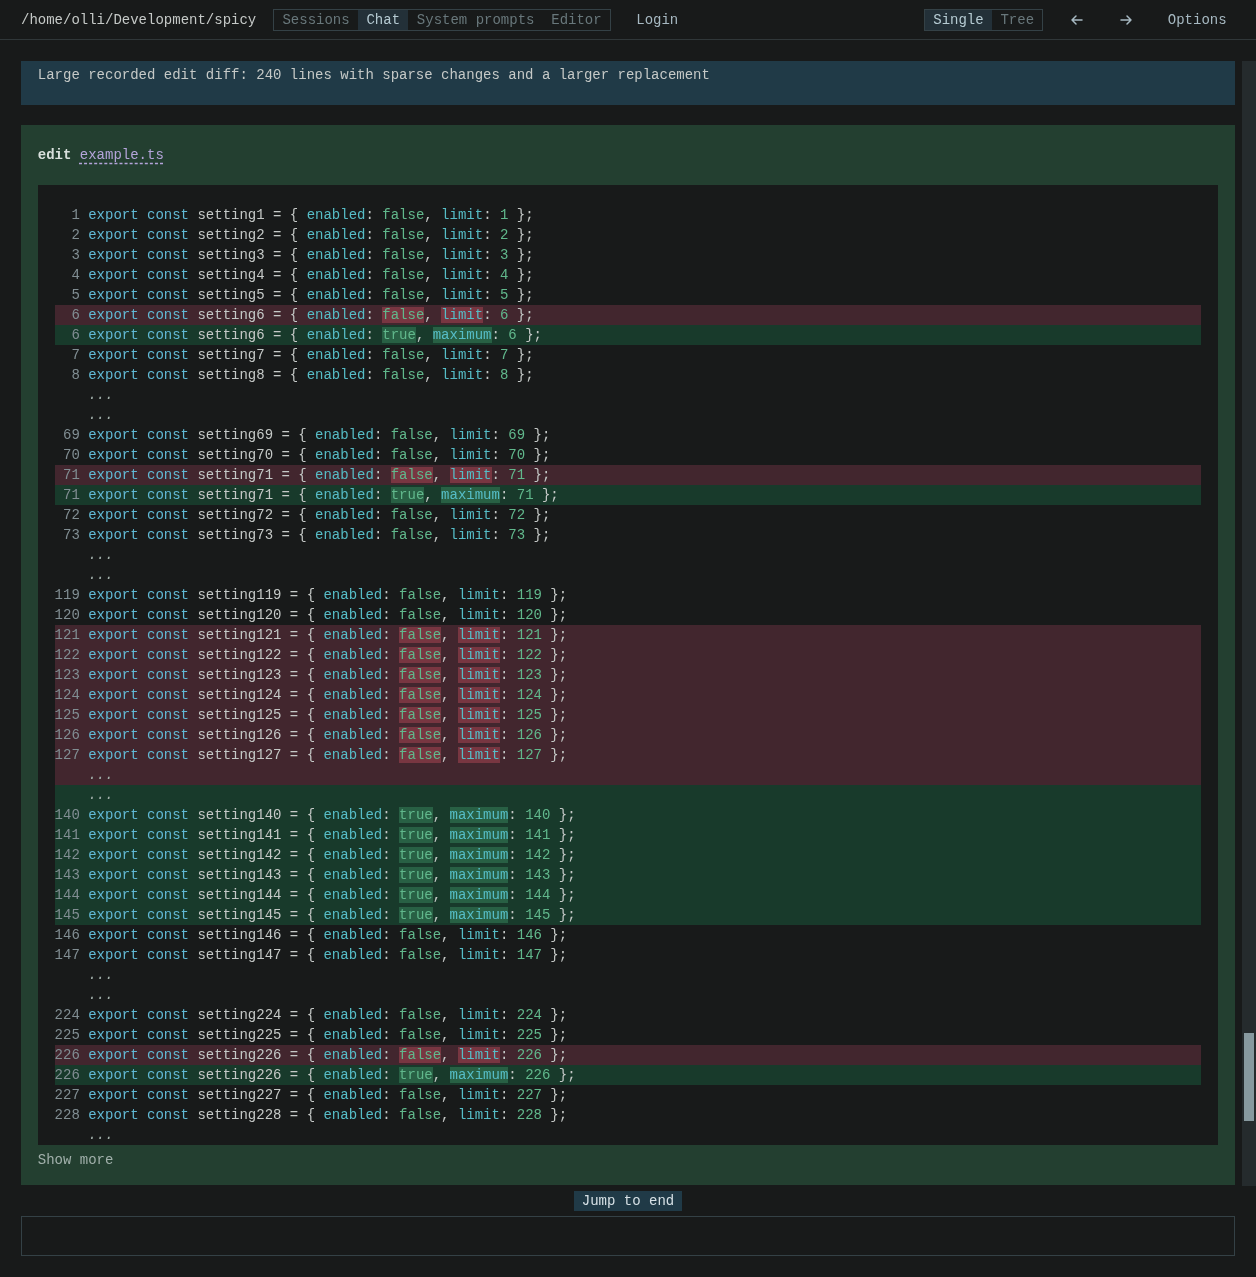
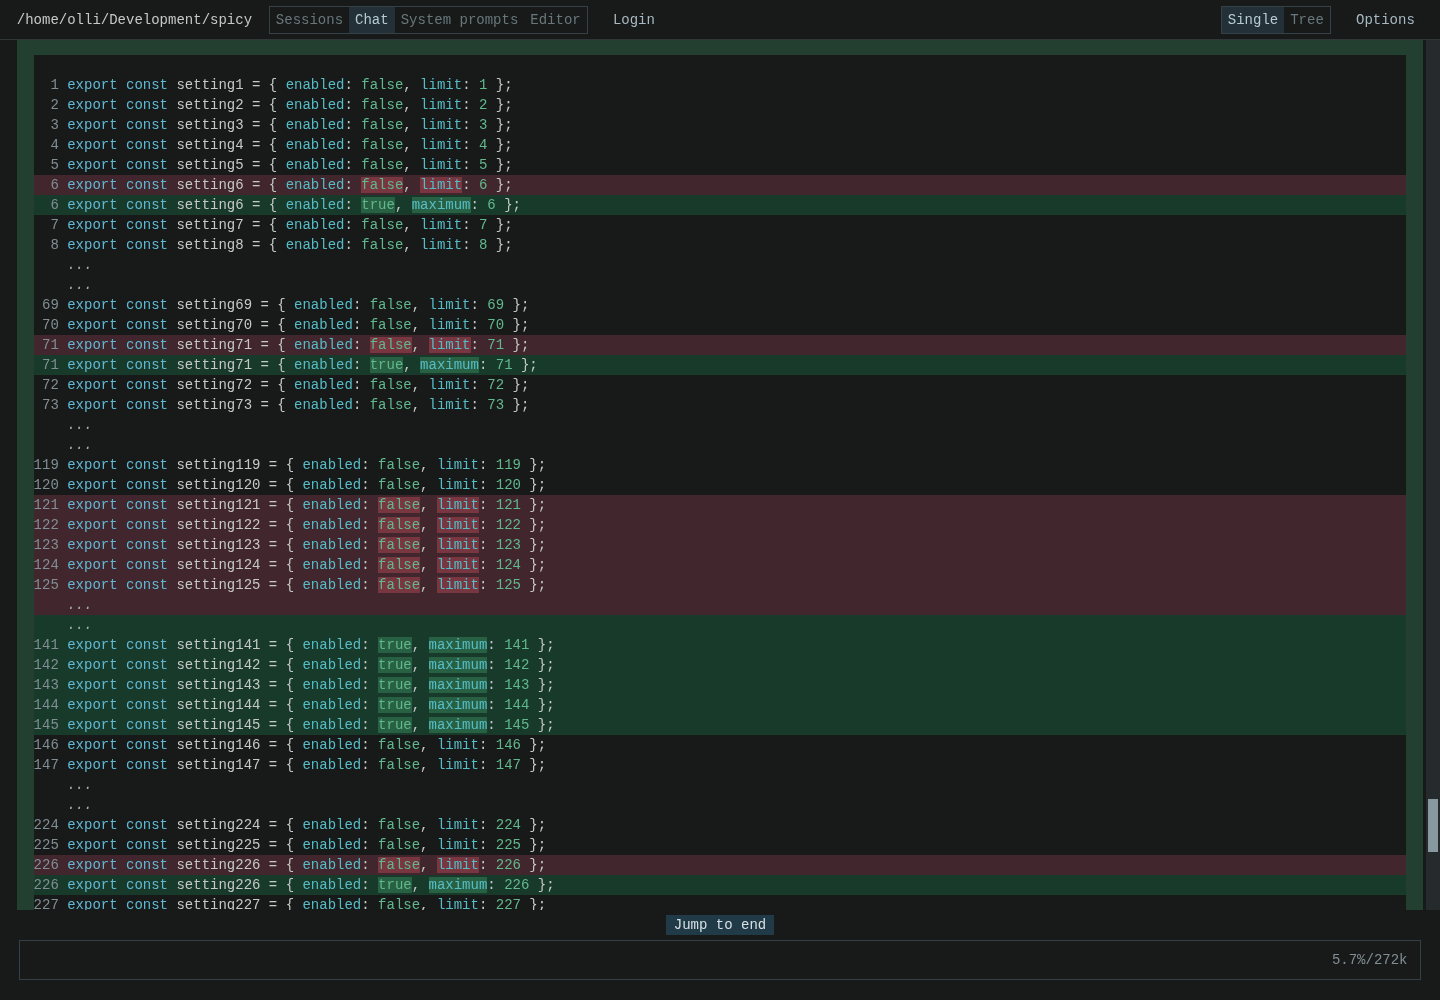
Refresh showcase screenshots and simplify capture settings

diff --git a/showcase/update-screenshots.ts b/showcase/update-screenshots.ts
@@ -1,58 +1,84 @@
-import { chromium } from 'playwright';
-import { readFile, mkdir } from 'node:fs/promises';
+import { chromium, type Page } from 'playwright';
+import { mkdir } from 'node:fs/promises';
 import { fileURLToPath } from 'node:url';
+import path from 'node:path';
 
-const shots = JSON.parse(await readFile(new URL('./screenshots.json', import.meta.url), 'utf8'));
+interface Screenshot {
+  name: string;
+  path: string;
+  ready: string;
+  localStorage?: Record<string, string>;
+  prepare?: (page: Page) => Promise<void>;
+}
+
+// Screenshot settings. Adjust the views and individual shots here.
+const viewport = { width: 1440, height: 1000 };
+const settleMs = 500;
+const shots: Screenshot[] = [
+  { name: 'sessions', path: '/', ready: '.history-card' },
+  { name: 'single', path: '/b/showcase', ready: '.single-mode .tree-node' },
+  { name: 'tree', path: '/t/showcase', ready: '.tree-node' },
+  { name: 'system-prompts', path: '/b/showcase/system-prompts', ready: '.system-prompts-view .system-prompt-version' },
+  { name: 'system-prompt-creator', path: '/b/showcase/system-prompt-creator', ready: '.system-prompt-creator .creator-columns' },
+  {
+    name: 'edit-diffs',
+    path: '/b/showcase',
+    ready: '#trace-viewport .tool-diff-preview',
+    // Retained from the original diff screenshot settings.
+    localStorage: {
+      'spicy.code-linewrap': 'false',
+      'spicy.chat-arrow-cursor': 'true',
+    },
+    prepare: async page => {
+      await page.locator('#trace-viewport').evaluate(element => {
+        element.scrollTo({ left: 0, top: 12463, behavior: 'instant' });
+      });
+    },
+  },
+];
+
 const baseURL = process.env.SPICY_URL || 'http://localhost:5174';
+const outputDirectory = process.env.SPICY_SCREENSHOT_DIR || fileURLToPath(new URL('./images/', import.meta.url));
+
+if (process.argv.includes('--list')) {
+  for (const shot of shots) console.log(`${shot.name}\t${shot.path}`);
+  process.exit(0);
+}
 const requested = new Set(process.argv.slice(2));
 for (const name of requested) {
   if (!shots.some(shot => shot.name === name)) throw new Error(`Unknown screenshot: ${name}`);
 }
 const selected = shots.filter(shot => !requested.size || requested.has(shot.name));
-if (!selected.length) {
-  console.log('No screenshots configured in showcase/screenshots.json yet.');
-} else {
-  await mkdir(new URL('./images/', import.meta.url), { recursive: true });
-  const browser = await chromium.launch({ executablePath: process.env.PLAYWRIGHT_CHROMIUM_EXECUTABLE_PATH || undefined });
-  try {
-    for (const shot of selected) {
-      if (!/^[a-z0-9][a-z0-9-]*$/.test(shot.name)) throw new Error(`Invalid screenshot name: ${shot.name}`);
-      const context = await browser.newContext({ viewport: shot.viewport, deviceScaleFactor: shot.deviceScaleFactor ?? 1 });
-      try {
-        // Each shot starts with clean browser preferences, optionally overridden here.
-        await context.addInitScript(values => {
-          for (const [key, value] of Object.entries(values)) localStorage.setItem(key, String(value));
-        }, shot.localStorage || {});
-        const page = await context.newPage();
-        await page.goto(new URL(shot.path, baseURL).href);
-        await page.locator(shot.readySelector || '.spicy-host').first().waitFor();
-        await page.evaluate(async () => {
-          await document.fonts.ready;
-          // Earlier lazy images affect every scroll offset below them.
-          await Promise.all([...document.images].map(async image => {
-            image.loading = 'eager';
-            try { await image.decode(); } catch { /* Broken images retain their rendered fallback. */ }
-          }));
-        });
-        // Optional UI setup, such as expanding a particular tool result.
-        for (const selector of shot.clicks || []) await page.locator(selector).click();
-        for (const scroll of shot.scrolls || []) {
-          await page.locator(scroll.selector).evaluate((element, position) => {
-            element.scrollTo({ left: position.x ?? 0, top: position.y ?? 0, behavior: 'instant' });
-          }, scroll);
-        }
-        if (shot.windowScroll) {
-          await page.evaluate(position => window.scrollTo({ ...position, behavior: 'instant' }), shot.windowScroll);
-        }
-        await page.waitForTimeout(shot.settleMs ?? 500);
-        const path = fileURLToPath(new URL(`./images/${shot.name}.png`, import.meta.url));
-        await page.screenshot({ path, fullPage: false, animations: 'disabled', caret: 'hide' });
-        console.log(path);
-      } finally {
-        await context.close();
-      }
+await mkdir(outputDirectory, { recursive: true });
+const browser = await chromium.launch({ executablePath: process.env.PLAYWRIGHT_CHROMIUM_EXECUTABLE_PATH || undefined });
+try {
+  for (const shot of selected) {
+    const context = await browser.newContext({ viewport, deviceScaleFactor: 1 });
+    try {
+      // Each view starts with clean preferences, except explicit settings above.
+      await context.addInitScript(values => {
+        for (const [key, value] of Object.entries(values)) localStorage.setItem(key, value);
+      }, shot.localStorage || {});
+      const page = await context.newPage();
+      const response = await page.goto(new URL(shot.path, baseURL).href);
+      if (!response?.ok()) throw new Error(`${shot.name}: navigation failed (${response?.status() ?? 'no response'})`);
+      await page.locator(shot.ready).first().waitFor();
+      await page.evaluate(async () => {
+        await document.fonts.ready;
+        await Promise.all([...document.images].map(async image => {
+          image.loading = 'eager';
+          try { await image.decode(); } catch { /* Keep broken-image fallbacks. */ }
+        }));
+      });
+      await shot.prepare?.(page);
+      await page.waitForTimeout(settleMs);
+      const outputPath = path.join(outputDirectory, `${shot.name}.png`);
+      await page.screenshot({ path: outputPath, fullPage: false, animations: 'disabled', caret: 'hide' });
+      console.log(outputPath);
+    } finally {
+      await context.close();
     }
-  } finally {
-    await browser.close();
   }
+} finally {
+  await browser.close();
 }

diff --git a/showcase/reset.ts b/showcase/reset.ts
@@ -57,15 +57,15 @@ user('Long code and horizontal overflow');
 assistant('```typescript\n'+Array.from({length:65},(_,i)=>`const example${i+1} = { index: ${i+1}, label: "Rendering example ${i+1}" };`).join('\n')+'\n```\n\n```text\n'+ 'A very wide line — '.repeat(30)+'\n```');
 user('Long prose');
 assistant(Array.from({length:18},(_,i)=>`Paragraph ${i+1}. This synthetic paragraph provides repeated text for reviewing wrapping, block height, scrolling, and collapsing. The beginning and ending should remain distinguishable when evaluating middle-collapse behavior.`).join('\n\n'));
-user('Image referenced as an attachment-style file path:\n\n' + cwd + '/showcase/images/collapse-example.png');
+user('Image referenced as an attachment-style file path:\n\n' + cwd + '/showcase/fixtures/collapse-example.png');
 assistant('This example contains only the image file path as text, without embedded image data.');
-entry({type:'message',message:{role:'user',content:[{type:'text',text:'User message with an attached image: this collapse hides almost nothing.'},{type:'image',mimeType:'image/png',data:fs.readFileSync(new URL('./images/collapse-example.png', import.meta.url)).toString('base64')}],timestamp:Date.now()}});
+entry({type:'message',message:{role:'user',content:[{type:'text',text:'User message with an attached image: this collapse hides almost nothing.'},{type:'image',mimeType:'image/png',data:fs.readFileSync(new URL('./fixtures/collapse-example.png', import.meta.url)).toString('base64')}],timestamp:Date.now()}});
 assistant('This example tests an image attachment in a user message, separately from an image returned by read.');
 user('Read an image: screenshot of a near-threshold collapse');
 {
   const call = randomUUID();
-  assistant([{type:'toolCall',id:call,name:'read',arguments:{path:'showcase/images/collapse-example.png'}}], 'toolUse');
-  entry({type:'message',message:{role:'toolResult',toolCallId:call,toolName:'read',content:[{type:'text',text:'Read image file [image/png]'},{type:'image',mimeType:'image/png',data:fs.readFileSync(new URL('./images/collapse-example.png', import.meta.url)).toString('base64')}],isError:false,timestamp:Date.now()}});
+  assistant([{type:'toolCall',id:call,name:'read',arguments:{path:'showcase/fixtures/collapse-example.png'}}], 'toolUse');
+  entry({type:'message',message:{role:'toolResult',toolCallId:call,toolName:'read',content:[{type:'text',text:'Read image file [image/png]'},{type:'image',mimeType:'image/png',data:fs.readFileSync(new URL('./fixtures/collapse-example.png', import.meta.url)).toString('base64')}],isError:false,timestamp:Date.now()}});
 }
 assistant('The image above is the supplied example of a collapse control consuming the space it saves.');
 user('Read result');

diff --git a/showcase/README.md b/showcase/README.md
@@ -1,3 +1,25 @@
-# Gallery
+# Showcase
+
+## Sessions
+
+![Sessions](images/sessions.png)
+
+## Single
+
+![Single conversation](images/single.png)
+
+## Tree
+
+![Conversation tree](images/tree.png)
+
+## System prompts
+
+![System prompts](images/system-prompts.png)
+
+## System prompt creator
+
+![System prompt creator](images/system-prompt-creator.png)
+
+## Edit diffs
 
 ![Edit diffs](images/edit-diffs.png)

diff --git a/README.md b/README.md
@@ -37,6 +37,8 @@ Open http://localhost:5174.
 
 ## Screenshots
 
-![Spicy conversation tree view](showcase/images/tree-view.png)
+![Spicy conversation tree view](showcase/images/tree.png)
 
-![Spicy single conversation view](showcase/images/single-view.png)
+![Spicy single conversation view](showcase/images/single.png)
+
+[Showcase](showcase/README.md)
